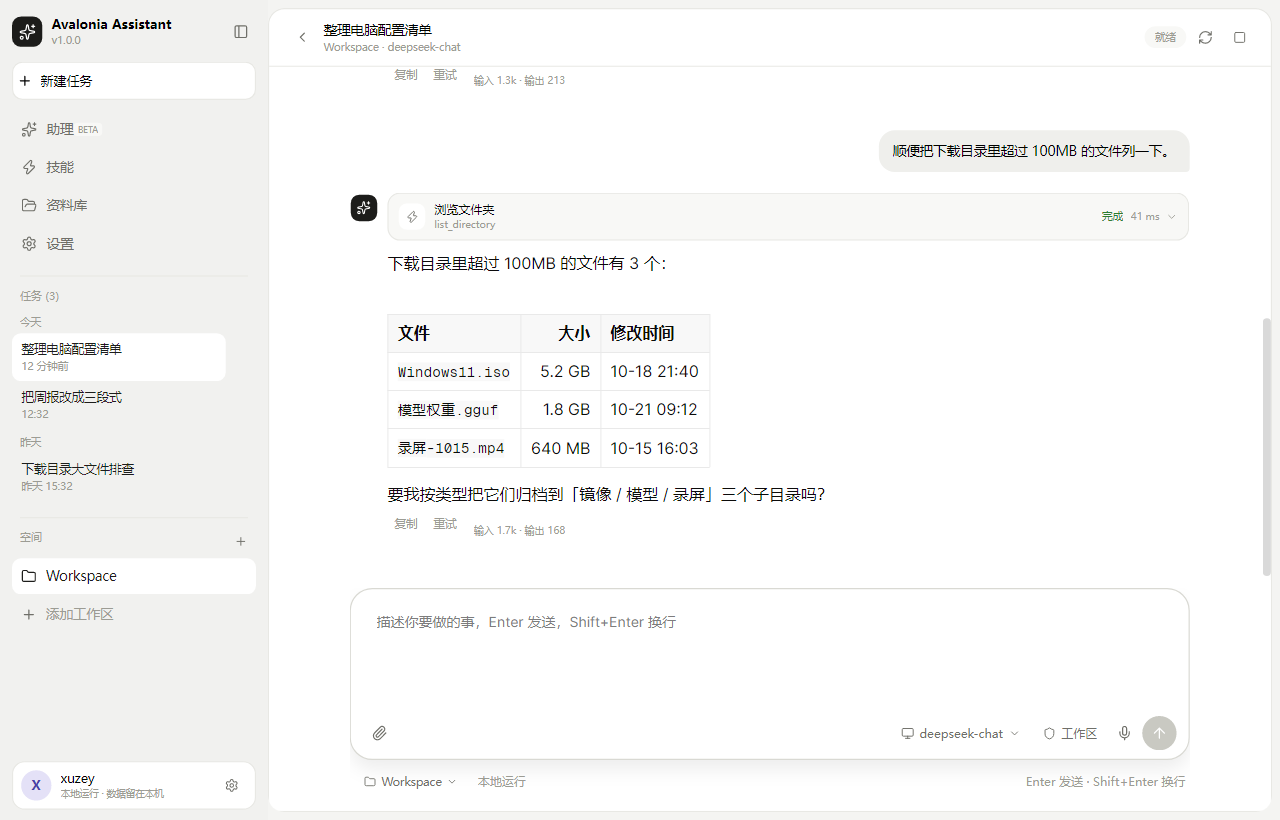
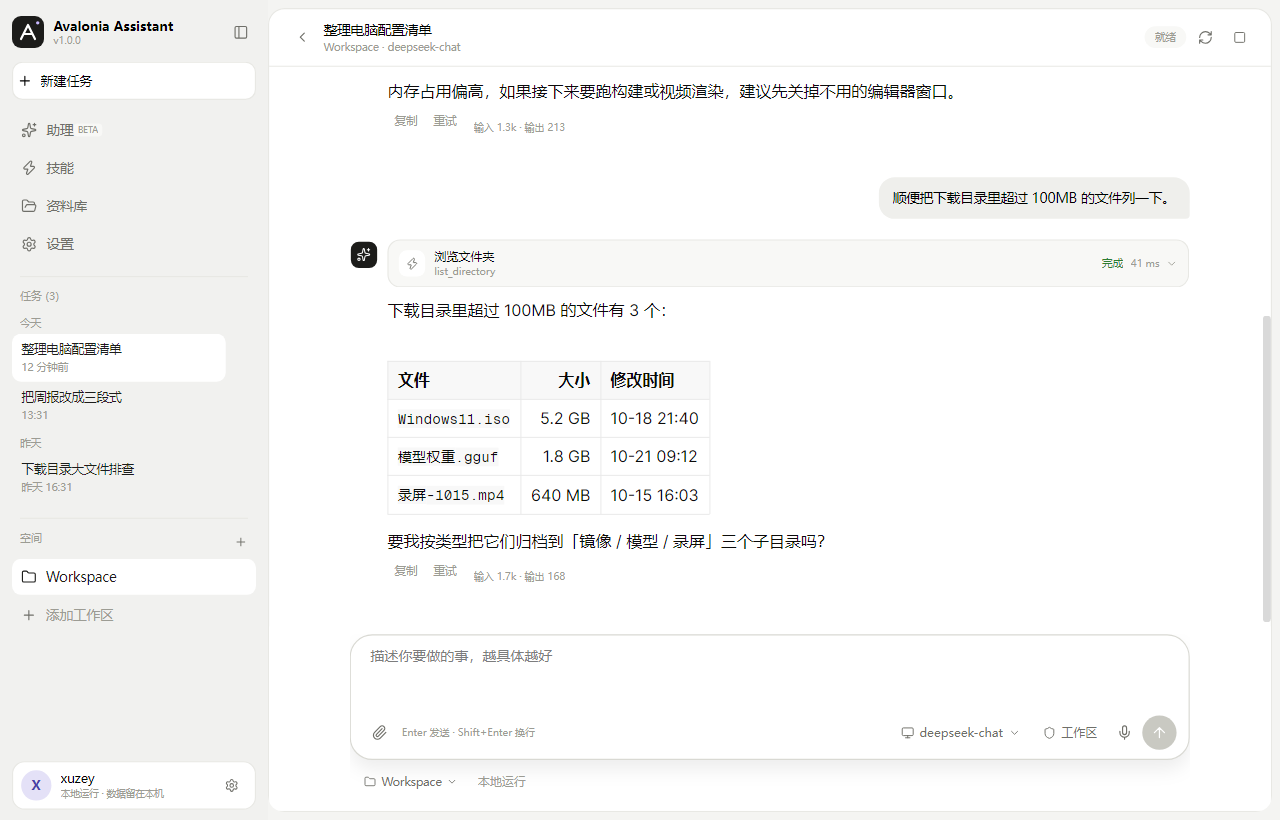
fix: 修正截图渲染黑边与首页排版细节
- 截图改为渲染窗口视觉根：高 DPI 下原先内容被压到左上角、右下留出 8px 黑边，
  且按物理像素渲染 Window 会漏掉按钮图标等合成层
- 输入框自定义主题改为 BasedOn Arc 默认主题，恢复 PlaceholderForeground 等 Setter，
  占位文字与工具栏重新可见
- 首页卡片改 UniformGrid 两列，与输入框左右边界对齐；收紧垂直间距消除溢出滚动条
- 设置页、工具页、资料库内容区改用对称留白，资料库路径以 ~ 缩写用户目录
- 修复 API Key 显示/隐藏按钮因缺少控件名而点击无效
- 移除未使用的 Pi.CodingAgent 引用，重新生成五张文档截图

diff --git a/src/AvaloniaAssistant.Agent/CodingSessionFactory.cs b/src/AvaloniaAssistant.Agent/CodingSessionFactory.cs
@@ -1,0 +1,94 @@
+using AvaloniaAssistant.Abstractions;
+using Pi.Agent.Types;
+using Pi.Ai.Api;
+using Pi.Ai.Models;
+using Pi.Ai.Types;
+using Pi.CodingAgent.Core;
+using Pi.CodingAgent.Core.Extensions;
+
+namespace AvaloniaAssistant.Agent;
+
+/// <summary>
+/// 用 Pi.CodingAgent 装配会话：模型运行时、会话、内置工具、技能、MCP、压缩都在这一步接好。
+/// 模型出入仍然走本项目自己的 provider 设置，不读 ~/.pi/agent/auth.json。
+/// </summary>
+internal sealed class CodingSessionFactory
+{
+    /// <summary>注册到 Pi 模型目录里的 provider id；和本地设置里的服务商无关。</summary>
+    private const string ProviderId = "avalonia-assistant";
+
+    /// <summary>会话默认启用的内置工具。read/ls/write/bash 由自建工具承担，避免同一件事两个工具。</summary>
+    public static IReadOnlyList<string> BuiltinTools(PermissionMode permission) =>
+        permission == PermissionMode.ReadOnly
+            ? ["grep", "find"]
+            : ["grep", "find", "edit"];
+
+    public static async Task<AgentSession> CreateAsync(
+        AssistantSettings settings,
+        string cwd,
+        IReadOnlyList<ToolDefinition> customTools,
+        CancellationToken cancellationToken)
+    {
+        var api = ApiName(settings);
+        var http = new HttpClient { Timeout = TimeSpan.FromMinutes(10) };
+
+        var runtime = await ModelRuntime.CreateAsync(new CreateModelRuntimeOptions
+        {
+            ModelsPathDisabled = true,
+            AllowModelNetwork = false,
+            RefreshOnCreate = false,
+            Signal = cancellationToken,
+        }).ConfigureAwait(false);
+
+        runtime.RegisterProvider(ProviderId, new ProviderConfigInput
+        {
+            Name = ProviderPreset.For(settings.Provider).Name,
+            BaseUrl = settings.BaseUrl,
+            ApiKey = settings.ApiKey,
+            Api = api,
+            StreamSimple = (spec, context, _, token) =>
+            {
+                var options = new SimpleStreamOptions(
+                    ApiKey: settings.ApiKey,
+                    BaseUrl: string.IsNullOrWhiteSpace(settings.BaseUrl) ? null : settings.BaseUrl,
+                    MaxTokens: settings.MaxTokens,
+                    Temperature: settings.Temperature)
+                {
+                    Signal = token,
+                };
+
+                var model = spec with { Api = api, BaseUrl = settings.BaseUrl };
+                return settings.Protocol == AgentProtocol.AnthropicMessages
+                    ? AnthropicMessages.StreamSimple(model, context, options, http, token)
+                    : OpenAiCompletions.StreamSimple(model, context, options, http, token);
+            },
+        });
+
+        var result = await Sdk.CreateAgentSessionAsync(
+            new CreateAgentSessionOptions
+            {
+                Cwd = cwd,
+                ModelRuntime = runtime,
+                Model = new ModelSpec
+                {
+                    Id = settings.Model,
+                    Name = settings.Model,
+                    Api = api,
+                    Provider = ProviderId,
+                    BaseUrl = settings.BaseUrl,
+                },
+                // 会话只活在进程内：磁盘上的会话存档仍然由 ISessionStore 管，
+                // 两套 JSONL/JSON 同时落盘会互相打脸。
+                SessionManager = SessionManager.InMemory(cwd),
+                Tools = BuiltinTools(settings.Permission),
+                CustomTools = customTools,
+            },
+            processCwd: cwd,
+            cancellationToken: cancellationToken).ConfigureAwait(false);
+
+        return result.Session;
+    }
+
+    private static string ApiName(AssistantSettings settings)
+        => settings.Protocol == AgentProtocol.AnthropicMessages ? "anthropic-messages" : "openai-completions";
+}

diff --git a/src/AvaloniaAssistant.UI/App.axaml.cs b/src/AvaloniaAssistant.UI/App.axaml.cs
@@ -4,6 +4,7 @@ using Avalonia.Controls.ApplicationLifetimes;
 using Avalonia.Input;
 using Avalonia.Markup.Xaml;
 using Avalonia.Media.Imaging;
+using Avalonia.VisualTree;
 using AvaloniaAssistant.UI.Services;
 using AvaloniaAssistant.UI.ViewModels;
 using AvaloniaAssistant.UI.Views;
@@ -115,22 +116,25 @@ public partial class AssistantApp : Application
 
     private static void Capture(Window window, string path)
     {
-        // 位图的像素尺寸必须乘上系统缩放比例（例如 175%），否则渲染内容会被压到左上角、
-        // 右侧与底部留出空白，看起来像"截图不居中"。
-        var scaling = window.RenderScaling > 0 ? window.RenderScaling : 1.0;
-        var size = new PixelSize(
-            Math.Max(1, (int)Math.Round(window.Bounds.Width * scaling)),
-            Math.Max(1, (int)Math.Round(window.Bounds.Height * scaling)));
-
-        var bitmap = new RenderTargetBitmap(size, new Vector(96 * scaling, 96 * scaling));
-        bitmap.Render(window);
-
         var directory = Path.GetDirectoryName(path);
         if (!string.IsNullOrWhiteSpace(directory))
         {
             Directory.CreateDirectory(directory);
         }
 
+        // 渲染窗口的视觉根（带背景的那一层），而不是 Window 本身：
+        // Window 会让 RenderTargetBitmap 漏掉合成层（按钮、图标），
+        // 只渲染 Content 又会在右下留下透明边。视觉根两者都能兼顾。
+        var root = window.GetVisualChildren().OfType<Visual>().FirstOrDefault()
+                   ?? (Visual?)window.Content
+                   ?? window;
+
+        var size = new PixelSize(
+            Math.Max(1, (int)Math.Round(root.Bounds.Width)),
+            Math.Max(1, (int)Math.Round(root.Bounds.Height)));
+
+        var bitmap = new RenderTargetBitmap(size, new Vector(96, 96));
+        bitmap.Render(root);
         bitmap.Save(path, PngBitmapEncoderOptions.Default);
     }
 }

diff --git a/src/AvaloniaAssistant.UI/ViewModels/LibraryViewModel.cs b/src/AvaloniaAssistant.UI/ViewModels/LibraryViewModel.cs
@@ -45,6 +45,24 @@ public sealed partial class LibraryViewModel : ObservableObject
 
     public string WorkspacePath => _host.Settings.WorkspacePath;
 
+    /// <summary>标题栏里显示的路径，用户目录缩写为 ~，避免长路径挤满一行。</summary>
+    public string WorkspacePathDisplay
+    {
+        get
+        {
+            var path = WorkspacePath;
+            var home = Environment.GetFolderPath(Environment.SpecialFolder.UserProfile);
+            if (string.IsNullOrEmpty(home) || string.IsNullOrEmpty(path))
+            {
+                return path;
+            }
+
+            return path.StartsWith(home, StringComparison.OrdinalIgnoreCase)
+                ? "~" + path[home.Length..]
+                : path;
+        }
+    }
+
     public string WorkspaceName
     {
         get
@@ -124,6 +142,7 @@ public sealed partial class LibraryViewModel : ObservableObject
     {
         await _host.AddWorkspaceAsync();
         OnPropertyChanged(nameof(WorkspacePath));
+        OnPropertyChanged(nameof(WorkspacePathDisplay));
         OnPropertyChanged(nameof(WorkspaceName));
         await RefreshAsync();
     }

diff --git a/README.md b/README.md
@@ -25,20 +25,36 @@ Windows 桌面 AI 助理。Agent 循环用 [pi.net](https://github.com/AIDotNet/
 | --- | --- |
 | ![技能](docs/images/tools.png) | ![资料库](docs/images/library.png) |
 
-## 技术栈
+## 两个核心框架
+
+界面用 **TKCode.Arc**，Agent 循环用 **pi.net**，其余选型都是围着这两个补的。
+
+| 层 | 框架 | 引用包 | 版本 |
+| --- | --- | --- | --- |
+| UI 框架 | [TKCode.Arc](https://github.com/AIDotNet/TKCode.Arc)（AtomUI 生态） | `TKCode.Arc`、`TKCode.Arc.Fonts` | 0.3.0-preview.1 |
+| Agent 框架 | [pi.net](https://github.com/AIDotNet/pi.net)（Pi 的 .NET 移植） | `Pi.Agent`（传递引入 `Pi.Ai`） | 1.4.1 |
+
+- **TKCode.Arc 负责界面**：控件、主题、图标字体全部来自 Arc，入口在 `Program.BuildAvaloniaApp`
+  里一次装好——`WithArcFonts()` 加 `UseAtomUI(b => b.UseDesktopControls().UseArc())`，
+  页面、样式、VM 都在 `AvaloniaAssistant.UI`。
+- **pi.net 负责 Agent**：由 `Pi.Agent` 的 `Agent` + `AgentOptions`（`StreamFn` / `Model` /
+  `Messages` / `Tools` / `BeforeToolCall`）驱动整条循环，流式事件、工具声明、thinking 都来自 `Pi.Ai`；
+  provider 适配、事件映射、工具注册收在 `AvaloniaAssistant.Agent`。
+- **两边只在一个地方碰面**：`AvaloniaAssistant.Desktop` 这个组合根。`UI` 不引用 `Pi.Agent`，
+  `Agent` 不引用 Avalonia，换掉其中任何一个都不用动另一边。
+
+两个包都直接走 NuGet，不依赖本机参考仓库路径。Arc 包与本地源码的命名空间差异
+（`AtomUICommunity` vs `AIDotNet`）及踩坑记录见 [docs/research.md](docs/research.md)。
+
+## 其余技术栈
 
 | 层 | 选型 | 版本 |
 | --- | --- | --- |
 | 运行时 | .NET | 10.0（`net10.0`） |
-| UI | Avalonia | 12.1.4 |
-| 组件 | TKCode.Arc + AtomUI.Desktop.Controls | 0.3.0-preview.1 / 6.2.8 |
-| Agent | Pi.Agent（NuGet，传递引入 Pi.Ai） | 1.4.1 |
+| 基础 UI | Avalonia | 12.1.4 |
+| 控件库 | AtomUI.Desktop.Controls（Arc 依赖） | 6.2.8 |
 | MVVM | CommunityToolkit.Mvvm | 8.4.0 |
 | 语音 | NAudio | 2.2.1 |
-
-`pi.net` 和 `TKCode.Arc` 都直接引用 NuGet 包，不依赖本机参考仓库路径。
-Arc 包与本地源码的命名空间差异（`AtomUICommunity` vs `AIDotNet`）及踩坑记录见
-[docs/research.md](docs/research.md)。
 
 ## 快速开始
 
